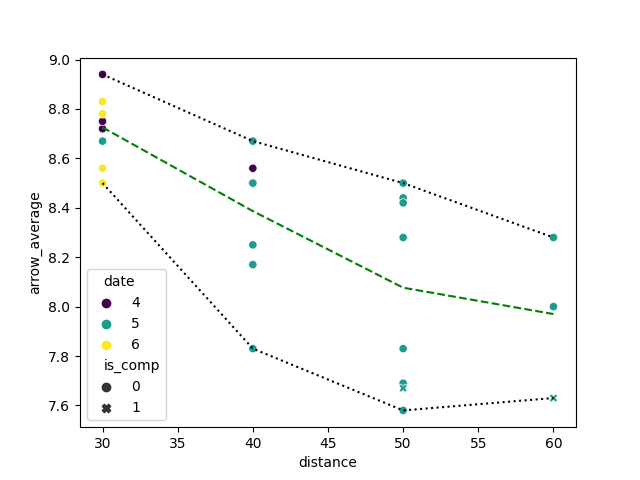
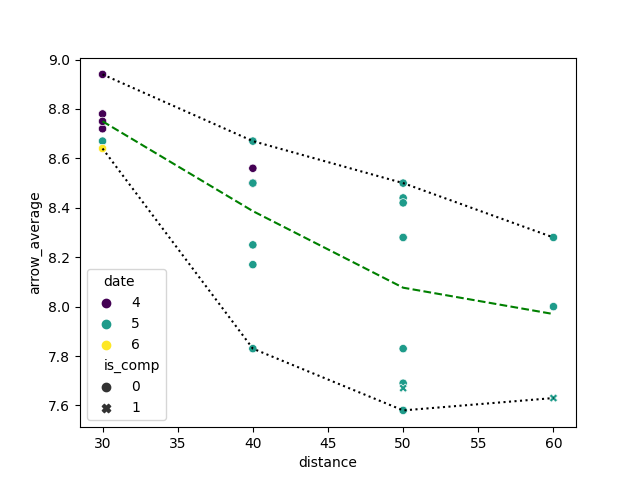
Merged June 4th scores into one shoot to avoid overweighting

diff --git a/archery_predictor/README.md b/archery_predictor/README.md
@@ -424,34 +424,34 @@ print(f"Score Data grouped by Competition Status: \n{score_data.groupby(['is_com
 This outputs:
 ```
 Score Data grouped by Day of Week: 
-             arrow_average  arrows  golds_pct
-day_of_week                                  
-1                 8.330000   27.75  69.444444
-4                 8.343333   32.00  68.981481
-6                 8.369375   32.25  72.352431
+             arrow_average     arrows  golds_pct
+day_of_week                                     
+1                 8.330000  27.750000  69.444444
+4                 8.343333  32.000000  68.981481
+6                 8.298462  39.692308  69.701826
 
 Score Data grouped by Month: 
-           arrow_average     arrows  golds_pct
-date date                                     
-2023 4          8.656250  33.000000  83.159722
-     5          8.149444  29.666667  62.692901
-     6          8.667500  33.000000  83.333333
+           arrow_average      arrows  golds_pct
+date date                                      
+2023 4          8.656250   33.000000  83.159722
+     5          8.149444   29.666667  62.692901
+     6          8.640000  132.000000  81.818182
 
 Score Data grouped by Distance by Month: 
-                    arrow_average     arrows  golds_pct
-distance date date                                     
-30       2023 4          8.797500  33.000000  89.930556
-              5          8.670000  36.000000  83.333333
-              6          8.667500  33.000000  83.333333
-40       2023 4          8.515000  33.000000  76.388889
-              5          8.284000  22.800000  66.111111
-50       2023 5          8.076667  29.333333  61.419753
-60       2023 5          7.970000  40.000000  53.935185
+                    arrow_average      arrows  golds_pct
+distance date date                                      
+30       2023 4          8.797500   33.000000  89.930556
+              5          8.670000   36.000000  83.333333
+              6          8.640000  132.000000  81.818182
+40       2023 4          8.515000   33.000000  76.388889
+              5          8.284000   22.800000  66.111111
+50       2023 5          8.076667   29.333333  61.419753
+60       2023 5          7.970000   40.000000  53.935185
 
 Score Data grouped by Distance: 
           arrow_average     arrows  golds_pct
 distance                                     
-30             8.725556  33.333333  86.265432
+30             8.750000  50.000000  87.478956
 40             8.386667  27.333333  70.679012
 50             8.076667  29.333333  61.419753
 60             7.970000  40.000000  53.935185
@@ -459,7 +459,7 @@ distance
 Score Data grouped by Competition Status: 
                   arrow_average     arrows  golds_pct
 distance is_comp                                     
-30       0             8.725556  33.333333  86.265432
+30       0             8.750000  50.000000  87.478956
 40       0             8.386667  27.333333  70.679012
 50       0             8.127500  30.000000  62.847222
          1             7.670000  24.000000  50.000000
